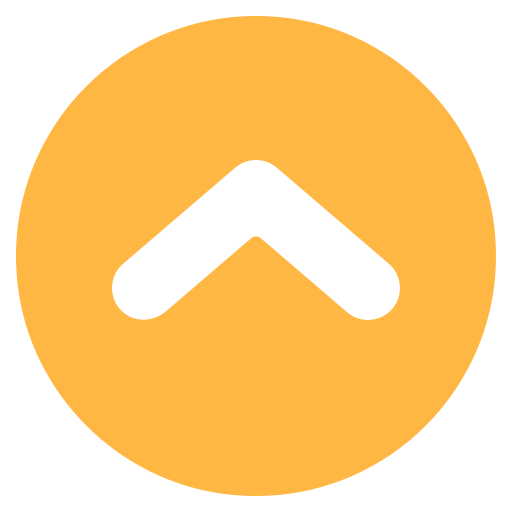
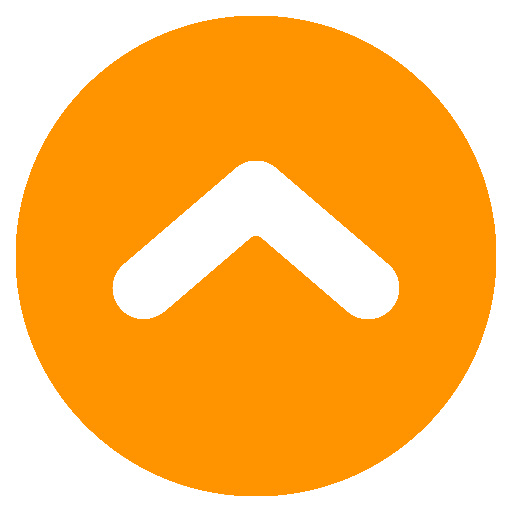
feat: 탑버튼 추가

diff --git a/funddeuck/src/main/webapp/resources/css/main.css b/funddeuck/src/main/webapp/resources/css/main.css
@@ -262,3 +262,15 @@
 	  font-size: 20px;
 	  cursor: pointer;
 	}
+	
+	/* 위로 가기 버튼 */
+   #go-top {
+	display: none;
+       position: fixed;
+       bottom: 120px;
+       right: 100px;
+       z-index: 99;
+       border: none;
+       background: none;
+       padding: 0;
+   }
